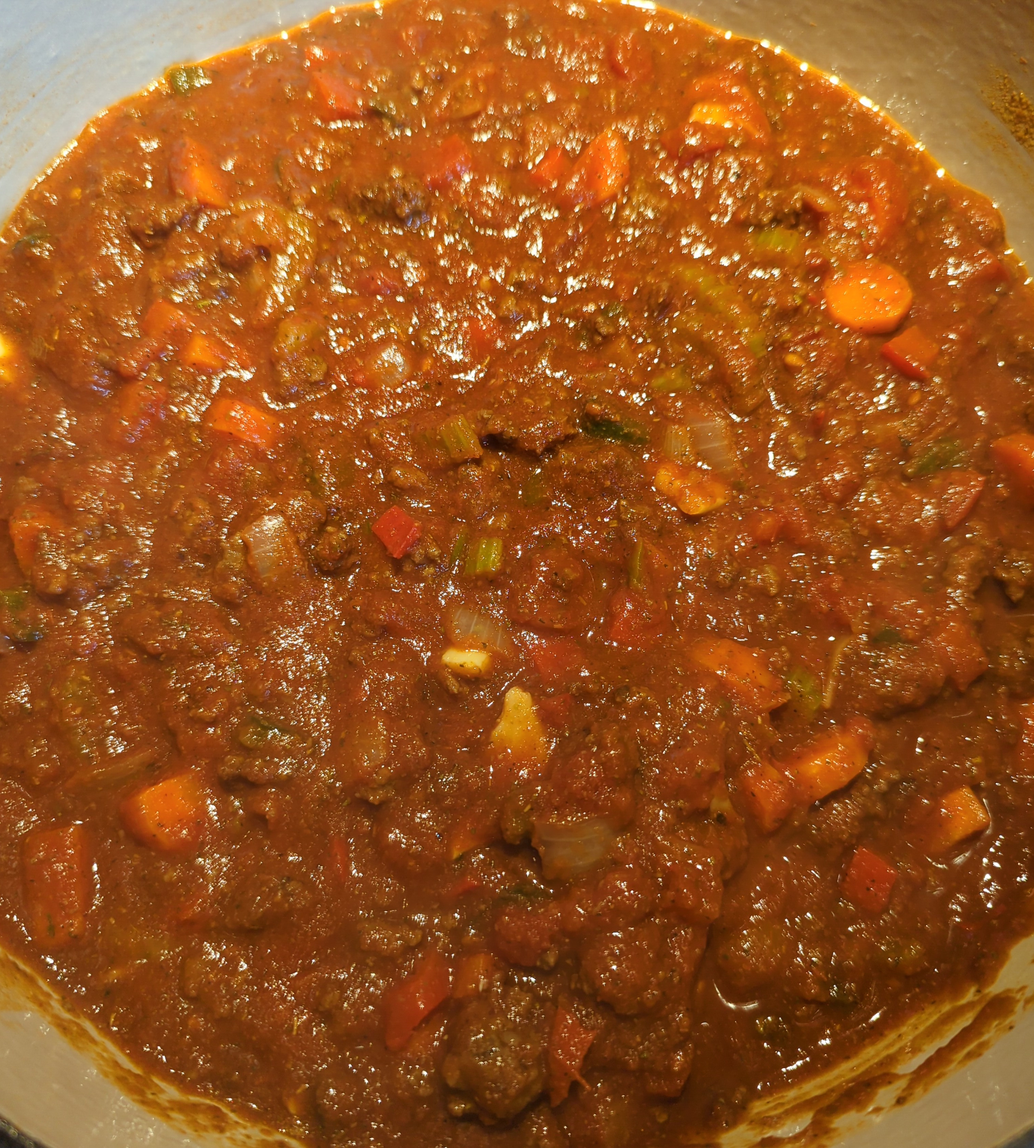
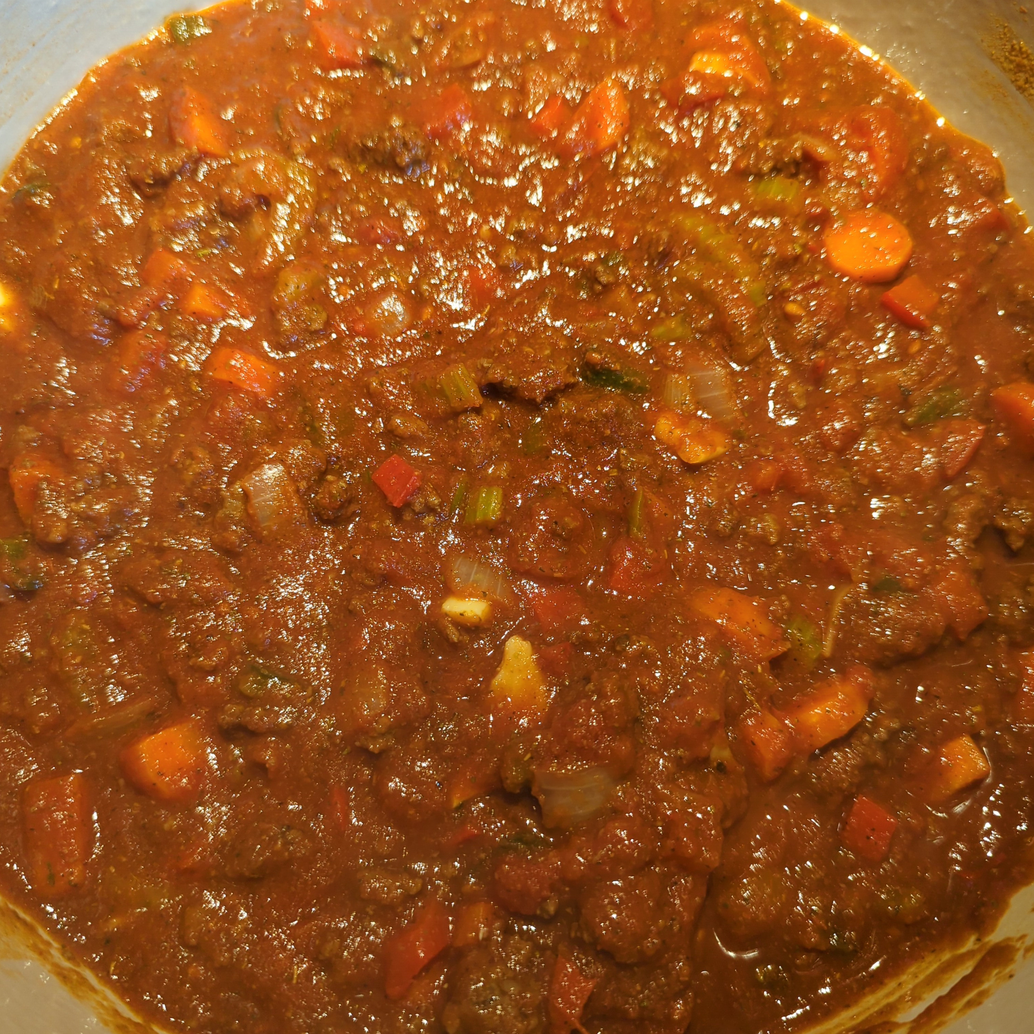
fixed image aspect ratio

diff --git a/food/chili.md b/food/chili.md
@@ -1,6 +1,6 @@
 # Chili
 
-<img src="/images/chili1.jpg" height="500">
+<img src="/images/chili1.jpg" height="500" width="500">
 
 - 1 Jalapeno Pepper
 - 2 Fresno Pepper
